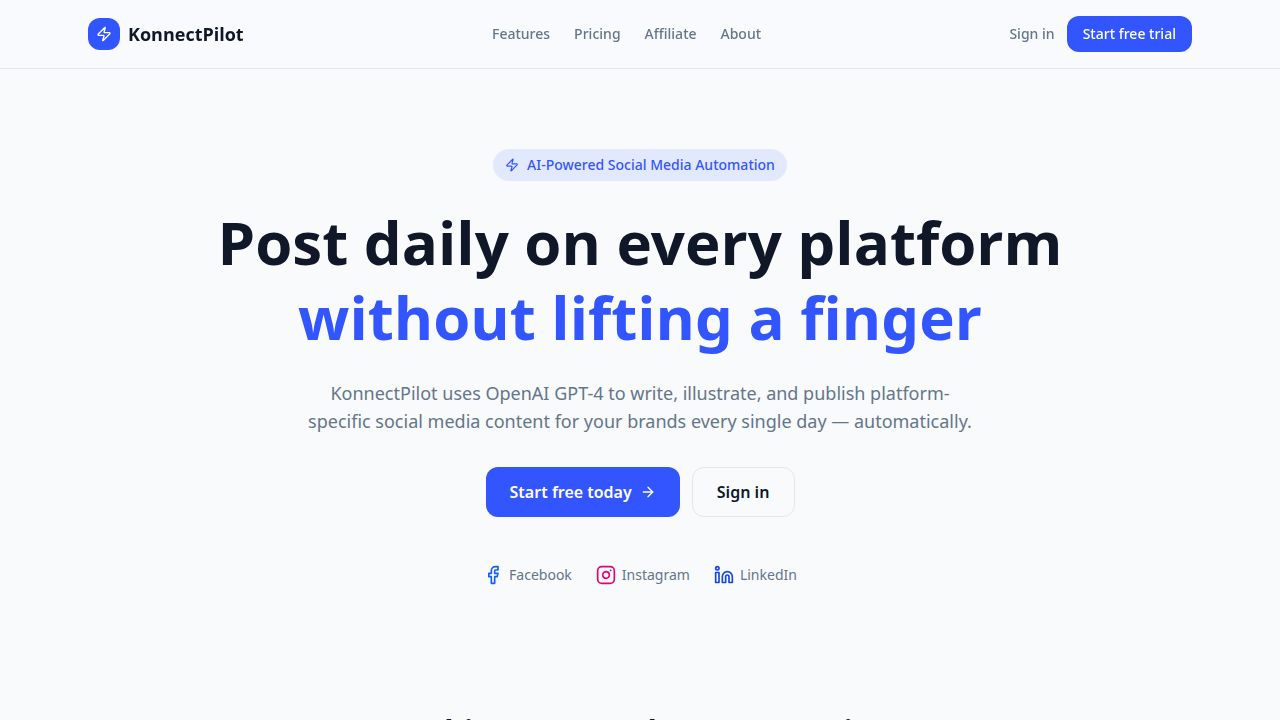
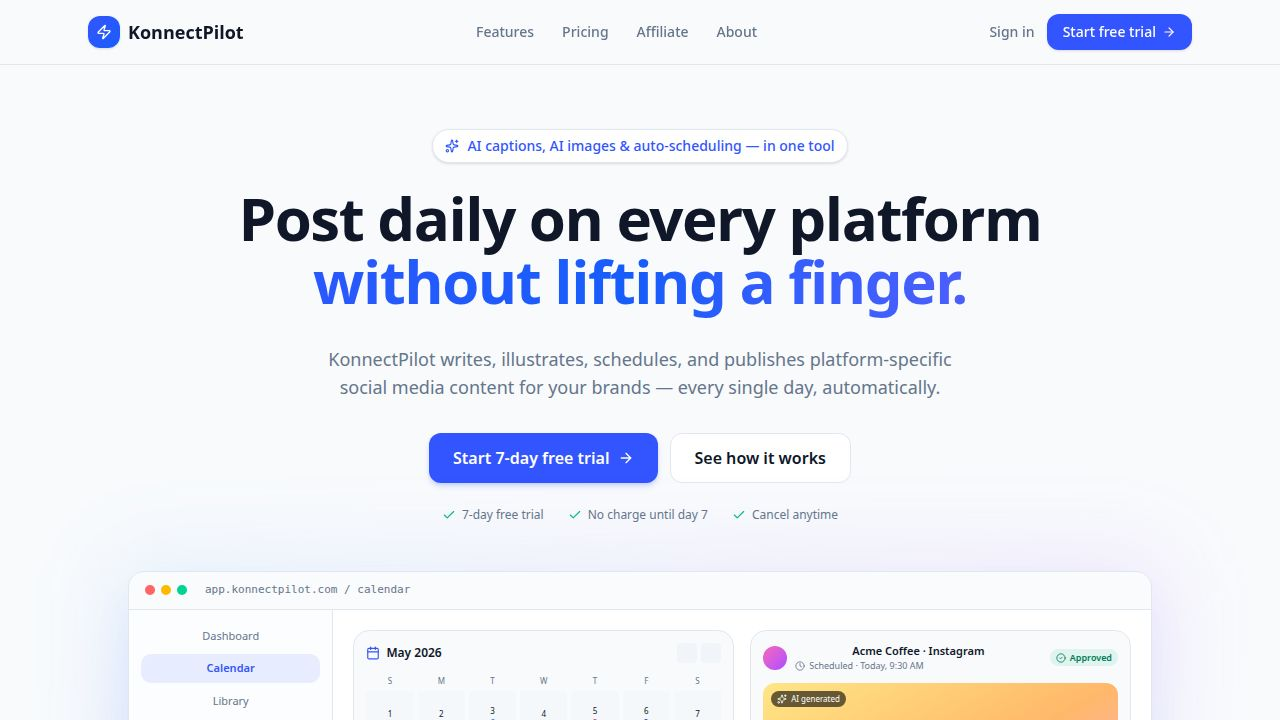
Improve user creation and workspace setup reliability
Refactor user creation and workspace initialization logic to use database transactions and advisory locks for improved concurrency control and data integrity. This includes handling missing email addresses and ensuring the creation of personal workspaces.

Replit-Commit-Author: Agent
Replit-Commit-Session-Id: db4191f7-580e-4ee7-9756-a22b010dde8a
Replit-Commit-Checkpoint-Type: full_checkpoint
Replit-Commit-Event-Id: 773ab51e-5b42-4742-a06a-f34e91542327
Replit-Commit-Screenshot-Url: https://storage.googleapis.com/screenshot-production-us-central1/0ab59fdb-e61d-46d6-9de9-b8de9b59aa9f/db4191f7-580e-4ee7-9756-a22b010dde8a/X9vzhGD
Replit-Helium-Checkpoint-Created: true

diff --git a/artifacts/api-server/src/routes/users.ts b/artifacts/api-server/src/routes/users.ts
@@ -1,5 +1,5 @@
 import { Router, type IRouter } from "express";
-import { getAuth } from "@clerk/express";
+import { getAuth, clerkClient } from "@clerk/express";
 import { eq, and, isNull, sql } from "drizzle-orm";
 import {
   db,
@@ -36,46 +36,102 @@ export function hasRoleAtLeast(role: WorkspaceRole, min: WorkspaceRole): boolean
 // Backfills any of their legacy records (brands/posts/schedules/social accounts)
 // that have no workspaceId so existing data continues to work after this migration.
 async function ensureUser(clerkId: string, email: string) {
+  // Fast path: user already exists, no bootstrap needed.
   let [user] = await db.select().from(usersTable).where(eq(usersTable.clerkId, clerkId));
+  let personal: typeof workspacesTable.$inferSelect | undefined;
+
   if (!user) {
-    [user] = await db
-      .insert(usersTable)
-      .values({ clerkId, email, plan: "free" })
-      .returning();
+    // Bootstrap path. The dashboard fires many parallel requests on first
+    // sign-in — all of them call ensureUser concurrently. Without
+    // serialization, multiple requests would race to INSERT the user and the
+    // personal workspace, causing unique-constraint 500s and/or duplicate
+    // "Personal" workspaces. We serialize the bootstrap on a Postgres advisory
+    // transaction lock keyed on the Clerk id: only one request per user runs
+    // the bootstrap at a time; the rest wait, then take the fast path on
+    // re-SELECT.
+    await db.transaction(async (tx) => {
+      await tx.execute(sql`SELECT pg_advisory_xact_lock(hashtextextended(${clerkId}, 0))`);
+
+      // Re-check inside the lock — a previous waiter may have already created
+      // the user.
+      [user] = await tx.select().from(usersTable).where(eq(usersTable.clerkId, clerkId));
+      if (!user) {
+        // Clerk's default session JWT doesn't include the `email` claim, so
+        // when creating a brand-new user we may need to fetch it from Clerk's
+        // API to satisfy the NOT NULL UNIQUE constraint on users.email.
+        let resolvedEmail = email;
+        if (!resolvedEmail) {
+          try {
+            const clerkUser = await clerkClient.users.getUser(clerkId);
+            const primaryId = clerkUser.primaryEmailAddressId;
+            const primary =
+              clerkUser.emailAddresses.find((e: any) => e.id === primaryId) ??
+              clerkUser.emailAddresses[0];
+            resolvedEmail = primary?.emailAddress ?? "";
+          } catch {
+            // fall through — handled below
+          }
+        }
+        if (!resolvedEmail) {
+          // Last-resort placeholder so we never insert an empty string (which
+          // would collide with the unique index for any other user missing an
+          // email).
+          resolvedEmail = `${clerkId}@users.noreply.konnectpilot.local`;
+        }
+        [user] = await tx
+          .insert(usersTable)
+          .values({ clerkId, email: resolvedEmail, plan: "free" })
+          .returning();
+      }
+
+      // Personal workspace.
+      [personal] = await tx
+        .select()
+        .from(workspacesTable)
+        .where(
+          and(eq(workspacesTable.ownerId, user.id), eq(workspacesTable.isPersonal, true)),
+        );
+      if (!personal) {
+        [personal] = await tx
+          .insert(workspacesTable)
+          .values({ name: "Personal", ownerId: user.id, isPersonal: true })
+          .returning();
+      }
+
+      // Owner membership.
+      const [membership] = await tx
+        .select()
+        .from(workspaceMembersTable)
+        .where(
+          and(
+            eq(workspaceMembersTable.workspaceId, personal.id),
+            eq(workspaceMembersTable.userId, user.id),
+          ),
+        );
+      if (!membership) {
+        await tx
+          .insert(workspaceMembersTable)
+          .values({ workspaceId: personal.id, userId: user.id, role: "owner" })
+          .onConflictDoNothing();
+      }
+    });
   }
 
-  // Find or create personal workspace
-  let [personal] = await db
-    .select()
-    .from(workspacesTable)
-    .where(and(eq(workspacesTable.ownerId, user.id), eq(workspacesTable.isPersonal, true)));
+  // For existing users we still need `personal` for the legacy backfill below
+  // and the activeWorkspaceId fallback further down.
   if (!personal) {
     [personal] = await db
-      .insert(workspacesTable)
-      .values({
-        name: "Personal",
-        ownerId: user.id,
-        isPersonal: true,
-      })
-      .returning();
+      .select()
+      .from(workspacesTable)
+      .where(
+        and(eq(workspacesTable.ownerId, user.id), eq(workspacesTable.isPersonal, true)),
+      );
   }
-
-  // Ensure owner membership row exists for the personal workspace
-  const [membership] = await db
-    .select()
-    .from(workspaceMembersTable)
-    .where(
-      and(
-        eq(workspaceMembersTable.workspaceId, personal.id),
-        eq(workspaceMembersTable.userId, user.id),
-      ),
-    );
-  if (!membership) {
-    await db.insert(workspaceMembersTable).values({
-      workspaceId: personal.id,
-      userId: user.id,
-      role: "owner",
-    });
+  if (!personal) {
+    // Defensive: an existing user with no personal workspace shouldn't happen
+    // after the migration, but if it does, surface a clear error rather than a
+    // ReferenceError further down.
+    throw new Error(`User ${user.id} has no personal workspace`);
   }
 
   // Backfill legacy records (one-shot — safe to run repeatedly: only updates rows